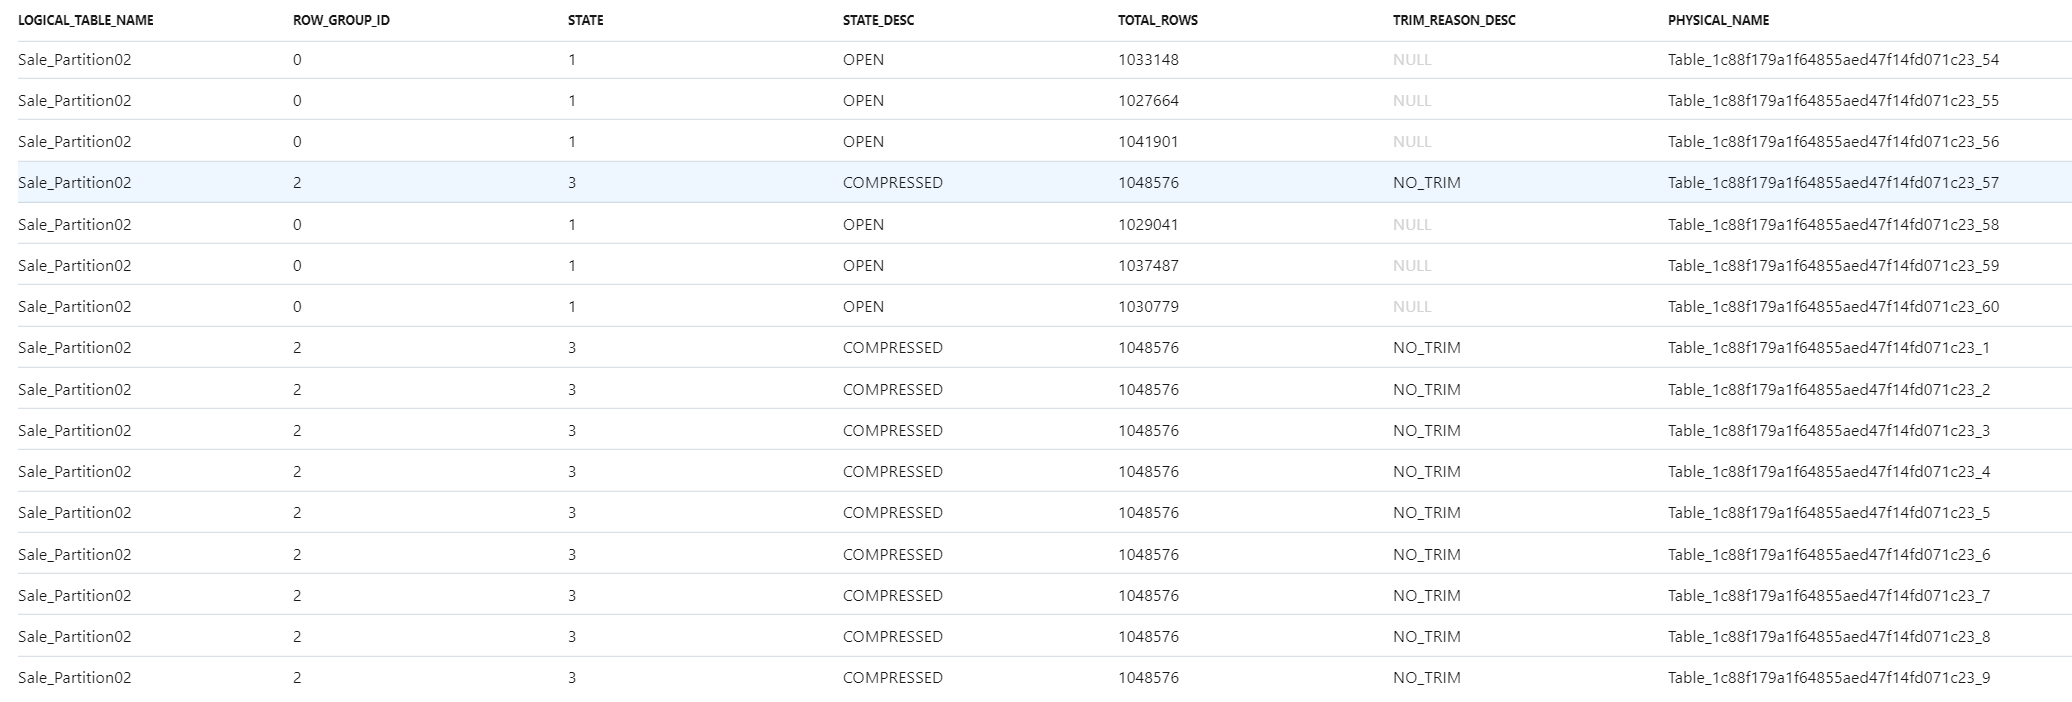
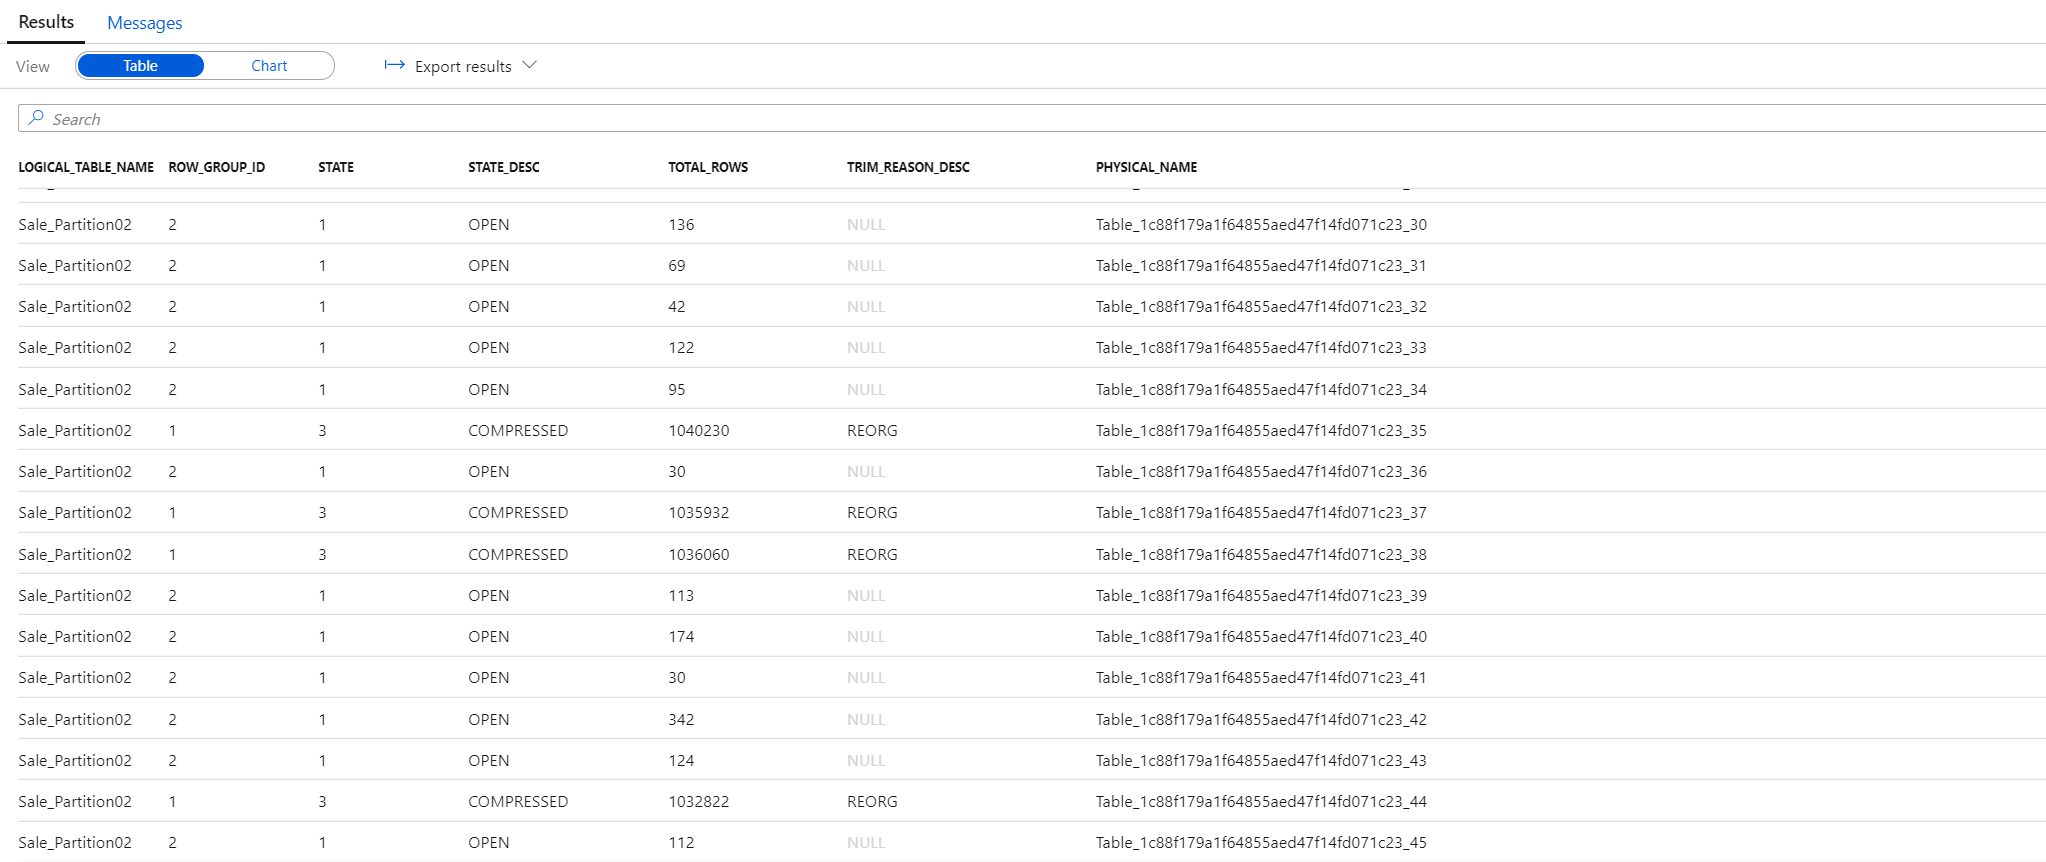
Lab 4 updates

diff --git a/day-02/lab04-dw-optimization-part-2.md b/day-02/lab04-dw-optimization-part-2.md
@@ -8,8 +8,8 @@
     - [Task 1 - Create view for column store row group stats](#task-1---create-view-for-column-store-row-group-stats)
     - [Task 2 - Explore column store storage details](#task-2---explore-column-store-storage-details)
   - [Exercise 3 - Study the impact of wrong choices for column data types](#exercise-3---study-the-impact-of-wrong-choices-for-column-data-types)
-    - [Task 1 - Create and populate a table with optimal column data types](#task-1---create-and-populate-a-table-with-optimal-column-data-types)
-    - [Task 2 - Create and populate a table with sub-optimal column data types](#task-2---create-and-populate-a-table-with-sub-optimal-column-data-types)
+    - [Task 1 - Create and populate tables with optimal column data types](#task-1---create-and-populate-tables-with-optimal-column-data-types)
+    - [Task 2 - Create and populate tables with sub-optimal column data types](#task-2---create-and-populate-tables-with-sub-optimal-column-data-types)
     - [Task 3 - Compare storage requirements](#task-3---compare-storage-requirements)
   - [Exercise 4 - Study the impact of materialized views](#exercise-4---study-the-impact-of-materialized-views)
     - [Task 1 - Analyze the execution plan of a query](#task-1---analyze-the-execution-plan-of-a-query)
@@ -217,6 +217,22 @@ Explicit instructions on scaling up to DW1500 before the lab and scaling back af
     FROM size
     ```
 
+    Take a moment to analyze the script above. You have encountered already some of the tables in the previous lab. Here is a short description of the tables and DMVs involved in the query:
+
+    Table Name | Description
+    ---|---
+    sys.schemas | All schemas in the database.
+    sys.tables | All tables in the database.
+    sys.indexes | All indexes in the database.
+    sys.columns | All columns in the database.
+    sys.pdw_table_mappings | Maps each table to local tables on physical nodes and distributions.
+    sys.pdw_nodes_tables | Contains information on each local table in each distribution.
+    sys.pdw_table_distribution_properties | Holds distribution information for tables (the type of distribution tables have).
+    sys.pdw_column_distribution_properties | Holds distribution information for columns. Filtered to include only columns used to distribute their parent tables (`distribution_ordinal` = 1).
+    sys.pdw_distributions |  Holds information about the distributions from the SQL pool.
+    sys.dm_pdw_nodes | Holds information about the nodes from the SQL pool. Filtered to include only compute nodes (`type` = `COMPUTE`).
+    sys.dm_pdw_nodes_db_partition_stats | Returns page and row-count information for every partition in the current database.
+
 2. Run the following script to view the details about the structure of the tables in the `wwi_perf` schema:
 
     ```sql
@@ -248,11 +264,13 @@ Explicit instructions on scaling up to DW1500 before the lab and scaling back af
         table_reserved_space_GB desc
     ```
 
-3. Notice the results:
+    Analyze the results:
 
-    ![Detailed table space usage](./media/lab3_table_space_usage_2.png)
+    ![Detailed table space usage](./media/lab4_table_space.png)
 
-    Notice the significant difference between the space used by `ROUND_ROBIN` and `HASH` tables.
+    Notice the significant difference between the space used by `CLUSTERED COLUMNSTORE` and `HEAP` or `CLUSTERED` tables. This provides a clear indication on the significant advantages columnstore indexes have.
+
+    Also notice the slight increase of storage space for ordered CCI table (`Sale_Hash_Ordered`).
 
 ## Exercise 2 - Understand column store storage details
 
@@ -285,31 +303,198 @@ Explicit instructions on scaling up to DW1500 before the lab and scaling back af
     from cte;
     ```
 
+    In this query we are using the `sys.dm_pdw_nodes_db_column_store_row_group_physical_stats` DMV which provides current rowgroup-level information about all of the columnstore indexes in the current database.
+
+    The `state_desc` column provides useful information on the state of a row group:
+
+    Name | Description
+    ---|---
+    `INVISIBLE` | A rowgroup which is being compressed.
+    `OPEN` | A deltastore rowgroup that is accepting new rows. It is important to remember that an open rowgroup is still in rowstore format and has not been compressed to columnstore format.
+    `CLOSED` | A deltastore rowgroup that contains the maximum number of rows, and is waiting for the tuple mover process to compress it to the columnstore.
+    `COMPRESSED` | A row group that is compressed with columnstore compression and stored in the columnstore.
+    `TOMBSTONE` | A row group that was formerly in the deltastore and is no longer used.
+
+    The `trim_reason_desc` column describes the reason that triggered the `COMPRESSED` rowgroup to have less than the maximum number of rows:
+
+    Name | Description
+    ---|---
+    `UNKNOWN_UPGRADED_FROM_PREVIOUS_VERSION` | Occurred when upgrading from the previous version of SQL Server.
+    `NO_TRIM` | The row group was not trimmed. The row group was compressed with the maximum of 1,048,476 rows. The number of rows could be less if a subset of rows was deleted after delta rowgroup was closed.
+    `BULKLOAD` | The bulk-load batch size limited the number of rows. This is what you should be looking for when optimizing data loading, as it is an indicator of resource starvation during the loading process.
+    `REORG` | Forced compression as part of REORG command.
+    `DICTIONARY_SIZE` | Dictionary size grew too large to compress all of the rows together.
+    `MEMORY_LIMITATION` | Not enough available memory to compress all the rows together.
+    `RESIDUAL_ROW_GROUP` | Closed as part of last row group with rows < 1 million during index build operation.
+
 ### Task 2 - Explore column store storage details
 
-1. Explore the statistics of the column store for the `Sale_Partition02` table using the following statement:
+1. Explore the statistics of the columnstore for the `Sale_Partition02` table using the following query:
 
     ```sql
-    select * from [wwi_perf].[vColumnStoreRowGroupStats] where Logical_Table_Name = 'Sale_Partition02'
+    SELECT
+        *
+    FROM
+        [wwi_perf].[vColumnStoreRowGroupStats]
+    WHERE
+        Logical_Table_Name = 'Sale_Partition02'
     ```
 
 2. Explore the results of the query:
 
-    ![Column store row group statistics](./media/lab4_column_store_row_groups.png)
+    ![Column store row group statistics for Sale_Partition02](./media/lab4_column_store_row_groups.png)
 
-    Notice the `COMPRESSED` and `OPEN` states of some of the row groups.
+    Browse through the results and get an overview of the rowgroup states. Notice the `COMPRESSED` and `OPEN` states of some of the row groups.
 
-    `<TBA>`
-    Detailed explanation about how did the row groups end up like shown above.
-    `</TBA>`
+3. Explore the statistics of the columnstore for the `Sale_Hash_Ordered` table using the same query:
+
+    ```sql
+    SELECT
+        *
+    FROM
+        [wwi_perf].[vColumnStoreRowGroupStats]
+    WHERE
+        Logical_Table_Name = 'Sale_Hash_Ordered'
+    ```
+
+4. Explore the results of the query:
+
+    ![Column store row group statistics for Sale_Hash_Ordered](./media/lab4_column_store_row_groups_2.png)
+
+    There is a significant difference in the rowgroup states from the previous one. This highlight one of the potential advantages of ordered CCIs.
 
 ## Exercise 3 - Study the impact of wrong choices for column data types
 
-### Task 1 - Create and populate a table with optimal column data types
+### Task 1 - Create and populate tables with optimal column data types
 
-### Task 2 - Create and populate a table with sub-optimal column data types
+Use the following query to create two tables (`Sale_Hash_Projection` and `Sale_Hash_Projection2`) which contain a subset of the columns from `Sale_Heap`:
+
+```sql
+CREATE TABLE [wwi_perf].[Sale_Hash_Projection]
+WITH
+(
+	DISTRIBUTION = HASH ( [CustomerId] ),
+	HEAP
+)
+AS
+SELECT TOP 500000000
+	[CustomerId]
+	,[ProductId]
+	,[Quantity]
+FROM
+	[wwi_perf].[Sale_Heap]
+
+CREATE TABLE [wwi_perf].[Sale_Hash_Projection2]
+WITH
+(
+	DISTRIBUTION = HASH ( [CustomerId] ),
+	CLUSTERED COLUMNSTORE INDEX
+)
+AS
+SELECT TOP 500000000
+	[CustomerId]
+	,[ProductId]
+	,[Quantity]
+FROM
+	[wwi_perf].[Sale_Heap]
+```
+
+The query should finish execution in a few minutes.
+
+### Task 2 - Create and populate tables with sub-optimal column data types
+
+Use the following query to create two additional tables (`Sale_Hash_Projection_Big` and `Sale_Hash_Projection_Big2`) that have the same columns, but with different (sub_optimal) data types:
+
+```sql
+CREATE TABLE [wwi_perf].[Sale_Hash_Projection_Big]
+WITH
+(
+	DISTRIBUTION = HASH ( [CustomerId] ),
+	HEAP
+)
+AS
+SELECT TOP 500000000
+	[CustomerId]
+	,CAST([ProductId] as bigint) as [ProductId]
+	,CAST([Quantity] as bigint) as [Quantity]
+FROM
+	[wwi_perf].[Sale_Heap]
+
+CREATE TABLE [wwi_perf].[Sale_Hash_Projection_Big2]
+WITH
+(
+	DISTRIBUTION = HASH ( [CustomerId] ),
+	CLUSTERED COLUMNSTORE INDEX
+)
+AS
+SELECT TOP 500000000
+	[CustomerId]
+	,CAST([ProductId] as bigint) as [ProductId]
+	,CAST([Quantity] as bigint) as [Quantity]
+FROM
+	[wwi_perf].[Sale_Heap]
+```
 
 ### Task 3 - Compare storage requirements
+
+1. Verify that the four tables have the same number of rows:
+
+    ```sql
+    SELECT 'Sale_Hash_Projection', COUNT_BIG(*) FROM [wwi_perf].[Sale_Hash_Projection]
+    UNION
+    SELECT 'Sale_Hash_Projection2', COUNT_BIG(*) FROM [wwi_perf].[Sale_Hash_Projection]
+    UNION
+    SELECT 'Sale_Hash_Projection_Big', COUNT_BIG(*) FROM [wwi_perf].[Sale_Hash_Projection_Big]
+    UNION
+    SELECT 'Sale_Hash_Projection_Big2', COUNT_BIG(*) FROM [wwi_perf].[Sale_Hash_Projection_Big2]
+    ```
+
+2. Run the following query to compare the storage requirements for the three tables:
+
+    ```sql
+    SELECT
+        database_name
+    ,    schema_name
+    ,    table_name
+    ,    distribution_policy_name
+    ,      distribution_column
+    ,    index_type_desc
+    ,    COUNT(distinct partition_nmbr) as nbr_partitions
+    ,    SUM(row_count)                 as table_row_count
+    ,    SUM(reserved_space_GB)         as table_reserved_space_GB
+    ,    SUM(data_space_GB)             as table_data_space_GB
+    ,    SUM(index_space_GB)            as table_index_space_GB
+    ,    SUM(unused_space_GB)           as table_unused_space_GB
+    FROM
+        [wwi_perf].[vTableSizes]
+    WHERE
+        schema_name = 'wwi_perf'
+        and table_name in ('Sale_Hash_Projection', 'Sale_Hash_Projection2',
+            'Sale_Hash_Projection_Big', 'Sale_Hash_Projection_Big2')
+    GROUP BY
+        database_name
+    ,    schema_name
+    ,    table_name
+    ,    distribution_policy_name
+    ,      distribution_column
+    ,    index_type_desc
+    ORDER BY
+        table_reserved_space_GB desc
+    ```
+
+3. Analyze the results:
+
+    ![Data type selection impact on table storage](./media/lab4_data_type_selection.png)
+
+    There are two important conclusions to draw here:
+    - First, despite the fact the `Sale_Projection_Big` uses misplaced
+
+Minimizing the size of data types shortens the row length, which leads to better query performance. Use the smallest data type that works for your data.
+
+Avoid defining character columns with a large default length. For example, if the longest value is 25 characters, then define your column as VARCHAR(25).
+Avoid using [NVARCHAR][NVARCHAR] when you only need VARCHAR.
+When possible, use NVARCHAR(4000) or VARCHAR(8000) instead of NVARCHAR(MAX) or VARCHAR(MAX).
+[!NOTE] If you are using PolyBase external tables to load your SQL pool tables, the defined length of the table row cannot exceed 1 MB. When a row with variable-length data exceeds 1 MB, you can load the row with BCP, but not with PolyBase.
 
 ## Exercise 4 - Study the impact of materialized views
 
